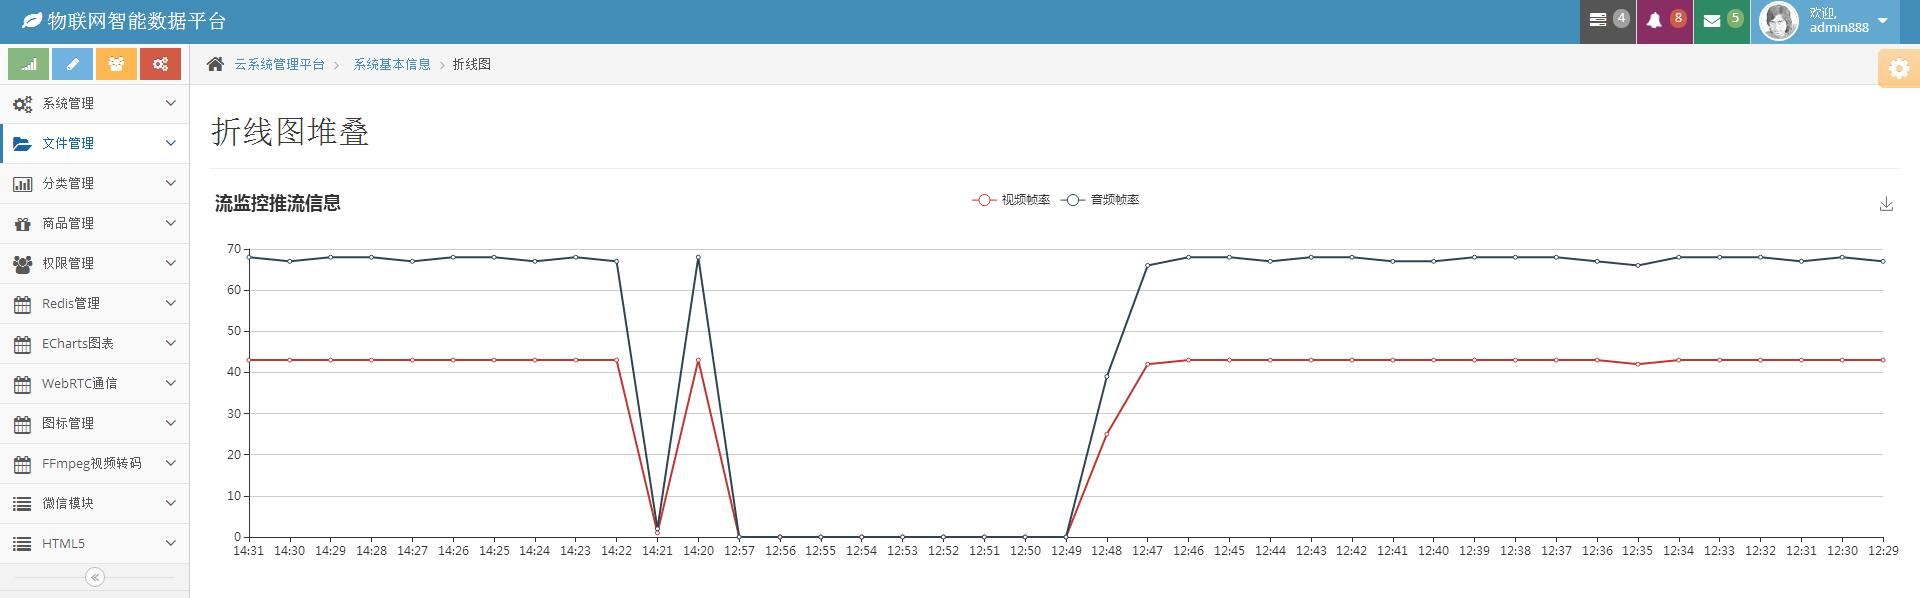
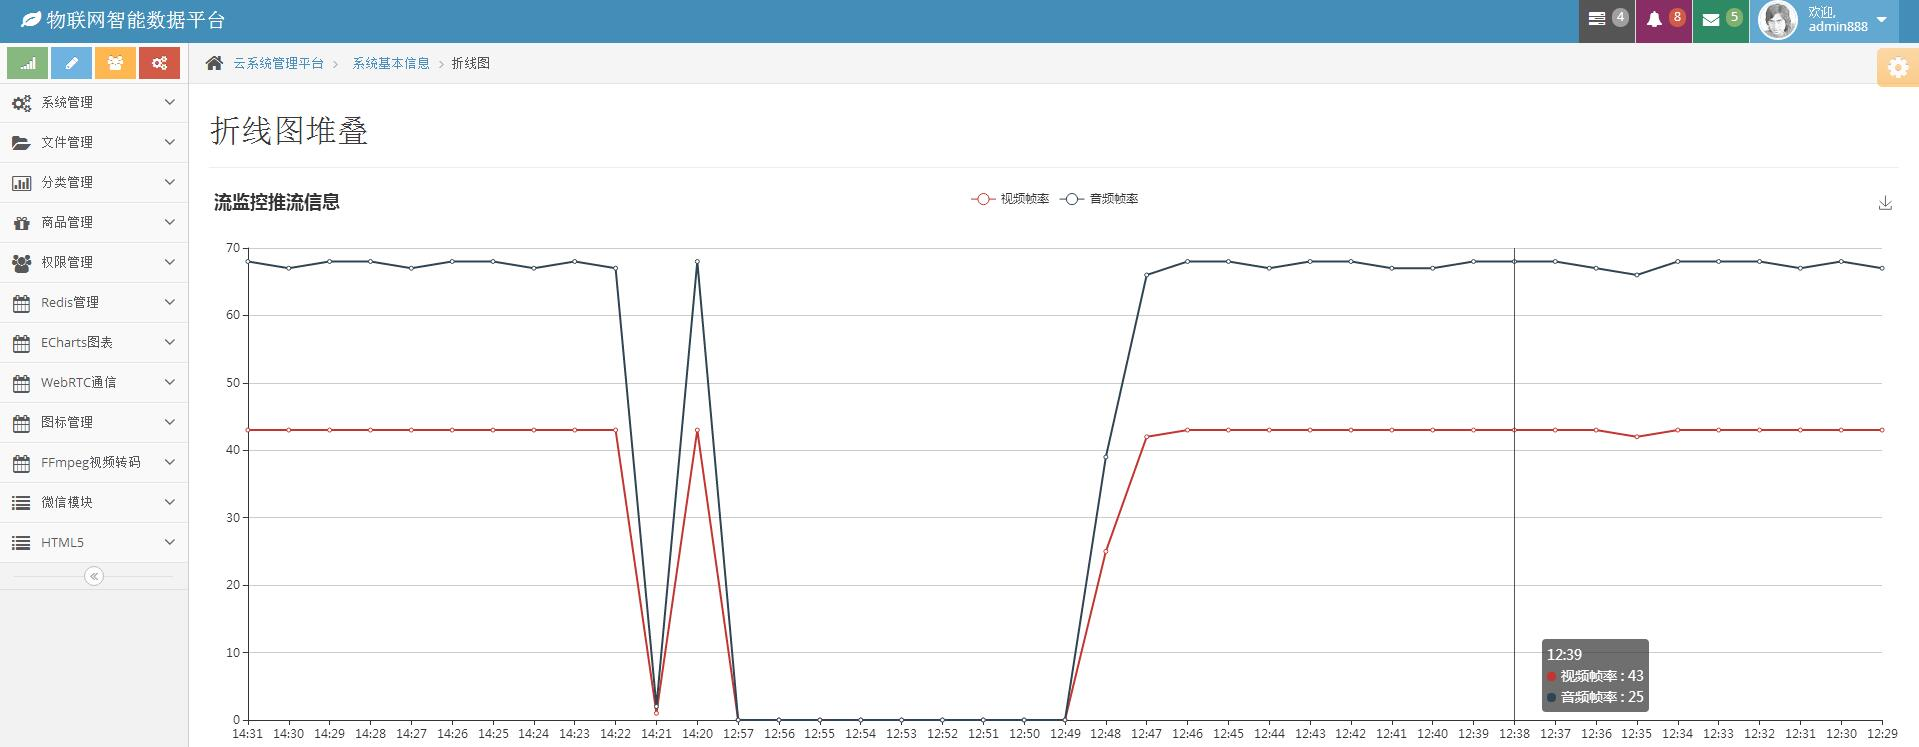
![image]

diff --git a/Tpl/Home/ECharts/chart_type_line.html b/Tpl/Home/ECharts/chart_type_line.html
@@ -28,7 +28,7 @@
         <div class="page-content">
             <h1>{$title}</h1>
             <hr/>
-            <div id="main" style="width: 100%;height:400px;"></div>
+            <div id="main" style="width: 100%;height:600px;"></div>
 
         </div>
        </div><!-- /.page-content -->
